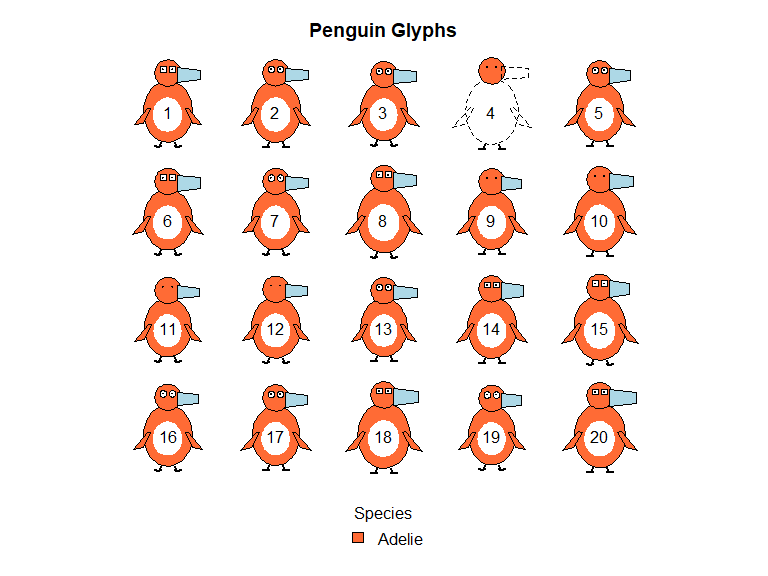
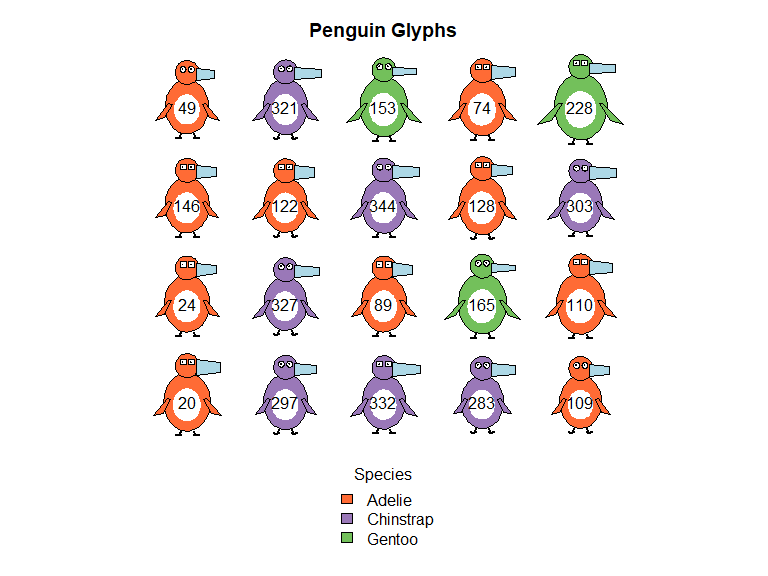
README: pkgdown badge, legend example uses the random sample; add docs/.nojekyll

Changed region(s): [[0.4375, 0.0938, 0.8438, 0.9688], [0.1562, 0.0938, 0.3125, 0.8125], [0.3125, 0.0938, 0.4375, 0.8125]]

diff --git a/docs/index.html b/docs/index.html
@@ -111,7 +111,7 @@
 </h3>
 <p><code><a href="reference/penguin_glyphs.html">penguin_glyphs()</a></code> draws the penguins in a data frame as a grid of glyphs, labeled by their row names.</p>
 <div class="sourceCode" id="cb2"><pre class="downlit sourceCode r">
-<code class="sourceCode R"><span><span class="kw"><a href="https://rdrr.io/r/base/library.html" class="external-link">library</a></span><span class="op">(</span><span class="va"><a href="https://friendly.github.io/penguinglyphs/">penguinglyphs</a></span><span class="op">)</span></span>
+<code class="sourceCode R"><span><span class="kw"><a href="https://rdrr.io/r/base/library.html" class="external-link">library</a></span><span class="op">(</span><span class="va"><a href="https://github.com/friendly/penguinglyphs" class="external-link">penguinglyphs</a></span><span class="op">)</span></span>
 <span></span>
 <span><span class="co"># Load penguin data</span></span>
 <span><span class="fu"><a href="https://rdrr.io/r/utils/data.html" class="external-link">data</a></span><span class="op">(</span><span class="va">penguins</span>, package <span class="op">=</span> <span class="st">"datasets"</span><span class="op">)</span></span>
@@ -178,7 +178,7 @@
 <p><img src="reference/figures/README-lineup-1.png" alt="" width="90%"></p>
 <div class="sourceCode" id="cb7"><pre class="downlit sourceCode r">
 <code class="sourceCode R"><span><span class="co"># Customize legend placement</span></span>
-<span><span class="fu"><a href="reference/penguin_glyphs.html">penguin_glyphs</a></span><span class="op">(</span><span class="va">penguins</span><span class="op">[</span><span class="fl">1</span><span class="op">:</span><span class="fl">20</span>,<span class="op">]</span>,</span>
+<span><span class="fu"><a href="reference/penguin_glyphs.html">penguin_glyphs</a></span><span class="op">(</span><span class="va">penguins</span><span class="op">[</span><span class="va">sampled_rows</span>,<span class="op">]</span>,</span>
 <span>               legend <span class="op">=</span> <span class="fu"><a href="https://rdrr.io/r/base/list.html" class="external-link">list</a></span><span class="op">(</span>loc <span class="op">=</span> <span class="st">"bottom"</span>, horiz <span class="op">=</span> <span class="cn">FALSE</span><span class="op">)</span><span class="op">)</span></span></code></pre></div>
 <p><img src="reference/figures/README-legend-1.png" alt="" width="90%"></p>
 </div>
@@ -208,7 +208,7 @@
 <div class="section level2">
 <h2 id="related">Related<a class="anchor" aria-label="anchor" href="#related"></a>
 </h2>
-<p>This package is designed to work with what was originally the <a href="https://allisonhorst.github.io/palmerpenguins/" class="external-link">Palmer Penguins</a> dataset, but now (R 4.5.0) in <code><a href="https://rdrr.io/r/datasets/penguins.html" class="external-link">datasets::penguins</a></code>, a popular alternative to the iris dataset for data exploration and visualization examples.</p>
+<p>This package is designed to work with what was originally the <a href="https://allisonhorst.github.io/palmerpenguins/" class="external-link">Palmer Penguins</a> dataset, but now (R 4.5.0) in <code><a href="https://rdrr.io/r/datasets/penguins.html" class="external-link">datasets::penguins</a></code>, and in <code><a href="https://friendly.github.io/heplots/reference/peng.html" class="external-link">heplots::peng</a></code> (which omits the NAs). This dataset is a popular alternative to the <code><a href="https://rdrr.io/r/datasets/iris.html" class="external-link">datasets::iris</a></code> dataset for data exploration and visualization examples.</p>
 </div>
 <div class="section level2">
 <h2 id="license">License<a class="anchor" aria-label="anchor" href="#license"></a>
@@ -253,6 +253,7 @@
 <h2 data-toc-skip>Dev status</h2>
 <ul class="list-unstyled">
 <li><a href="https://lifecycle.r-lib.org/articles/stages.html#experimental" class="external-link"><img src="https://img.shields.io/badge/lifecycle-experimental-orange.svg" alt="Lifecycle: experimental"></a></li>
+<li><a href="https://friendly.github.io/penguinglyphs/"><img src="https://img.shields.io/badge/pkgdown%20site-blue" alt="Docs"></a></li>
 </ul>
 </div>
 

diff --git a/README.md b/README.md
@@ -6,6 +6,7 @@
 experimental](https://img.shields.io/badge/lifecycle-experimental-orange.svg)](https://lifecycle.r-lib.org/articles/stages.html#experimental)
 ![GitHub last
 commit](https://img.shields.io/github/last-commit/friendly/penguinglyphs/master)
+[![Docs](https://img.shields.io/badge/pkgdown%20site-blue)](https://friendly.github.io/penguinglyphs/)
 <!-- badges: end -->
 
 # penguinglyphs <img src="man/figures/logo.png" height="200" style="float:right; height:200px;"/>
@@ -136,7 +137,7 @@ penguin_glyphs(peng[lineup,], main = "Can you spot the outliers?")
 
 ``` r
 # Customize legend placement
-penguin_glyphs(penguins[1:20,],
+penguin_glyphs(penguins[sampled_rows,],
                legend = list(loc = "bottom", horiz = FALSE))
 ```
 
@@ -170,8 +171,10 @@ clusters, and relationships that might be hidden in traditional plots.
 
 This package is designed to work with what was originally the [Palmer
 Penguins](https://allisonhorst.github.io/palmerpenguins/) dataset, but
-now (R 4.5.0) in `datasets::penguins`, a popular alternative to the iris
-dataset for data exploration and visualization examples.
+now (R 4.5.0) in `datasets::penguins`, and in `heplots::peng` (which
+omits the NAs). This dataset is a popular alternative to the
+`datasets::iris` dataset for data exploration and visualization
+examples.
 
 ## License
 
